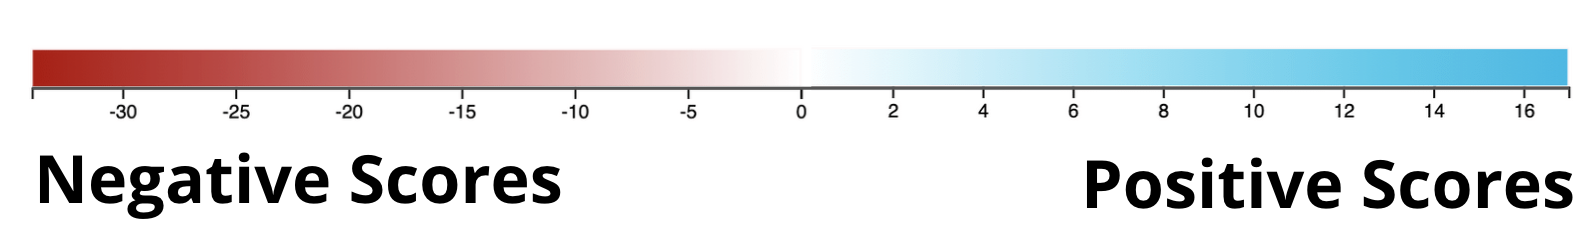
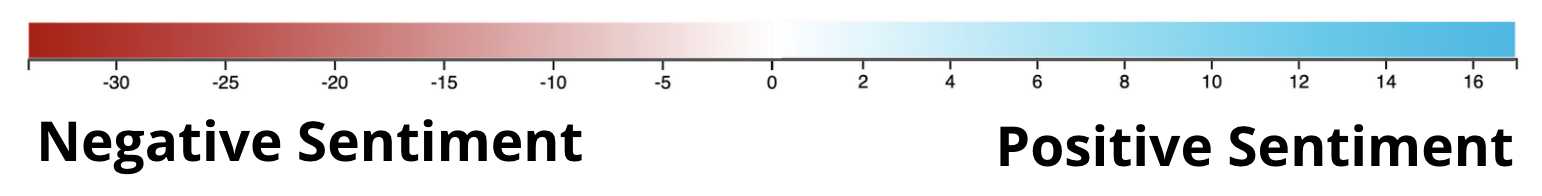
Changes to css

Changed region(s): [[0.0, 0.0918, 0.9961, 0.4898], [0.0, 0.6122, 0.4047, 0.8878], [0.6226, 0.6429, 0.9961, 0.8571]]

diff --git a/homework/Code/index4.html b/homework/Code/index4.html
@@ -21,7 +21,7 @@
         <p>The coronavirus outbreak has seem to hit the U.S. hard. As of <a href="https://www.bbc.com/news/world-us-canada-52258284">April 12</a>, US death toll has overtaken Italy as world's highest, with New York state being the epicenter of the outbreak. The country is well on its way to end up with the worst COVID-19 outbreak in the industrialized world. How did a country with supposedly the best medical infrastructure in the world be so ill-prepared for the pandemic when we were warned about it since early January. Let's take a look at the difference in reactions to the coronavirus situation between President Trump's and health experts, scientists, the Center for Disease Control and the World Health Organization (WHO) by looking at the sentiment scores for their speeches, articles or tweets.</p>
         <p>The project uses lexicon “Bing” and R scripts to analyze the sentiments of the texts. The “Bing” lexicon assigns words into positive and negative categories with scores. Articles are mostly written by the health experts themselves. The colors of the text boxes represent the sentiment of the texts. Shades of red color represent “negative” sentiment (having “Bing” score lower than 0). Shades of blue represent “positive” sentiment (having “Bing” score greater than 0). White color represent a “Bing” score of zero.</p>
         <div class="container">
-          <img class="image" src="chartf.png">
+          <img class="image" src="chartfinal.png">
           <div class="middle">
             <a href="#fullChart"><button class="button">See the timeline <br>in detail</button></a>
           </div>
@@ -45,8 +45,9 @@
         <div class="content-left-container">
           <div class="content-left" id="four">
             <p class="article-number">22th</p>
-            <p>"It’s one person coming in from China. We have it under control. It’s going to be just fine," <span class="article-number"><img src="trump.png" height="55" width="55"></span></p><br>
+            <p>"It’s one person coming in from China. We have it under control. It’s going to be just fine," <span class="article-number"><img src="trump.png" height="55" width="55"></span></p>
             <p class="sub">In an interview with CNBC’s Joe Kernen from the World Economic Forum in Davos</p>
+            <p class="score">Sentiment score: 4</p>
             <p class="seemore"><a href="https://www.cnbc.com/2020/01/22/trump-on-coronavirus-from-china-we-have-it-totally-under-control.html">See the full text</a></p>
           </div>
         </div>
@@ -56,6 +57,7 @@
             <p class="article-number">22th</p>
             <p>“We need to learn — and fast — about how [the coronavirus] spreads...”<span class="article-number"><img src="tom.png" height="55" width="55"></span></p>
             <p class="sub">Former CDC director Tom Frieden in an op-ed</p>
+            <p class="score">Sentiment score: -9</p>
             <p class="seemore"><a href="https://www.statnews.com/2020/01/22/former-cdc-director-tom-frieden-3-key-questions-novel-coronavirus-in-wuhan/">See the full text</a></p>
           </div>
         </div>
@@ -65,6 +67,7 @@
             <p class="article-number">22th</p>
             <p>WHO held meeting of the International Health Regulations Emergency Committee regarding the outbreak of novel coronavirus<span class="article-number"><img src="who.png" height="50" width="50"></span></p>
             <p class="sub">World Health Organization</p>
+            <p class="score">Sentiment score: -5</p>
             <p class="seemore"><a href="https://www.who.int/news-room/detail/23-01-2020-statement-on-the-meeting-of-the-international-health-regulations-(2005)-emergency-committee-regarding-the-outbreak-of-novel-coronavirus-(2019-ncov)">See the full text</a></p>
           </div>
       </div>
@@ -74,6 +77,7 @@
               <p class="article-number">24th</p>
               <p>“China has been working very hard to contain the Coronavirus. The United States greatly appreciates their efforts and transparency. It will all work out well. In particular, on behalf of the American People, I want to thank President Xi!"<span class="article-number"><img src="trump.png" height="55" width="55"></span></p>
               <p class="sub">A status on Twitter</p>
+              <p class="score">Sentiment score: 3</p>
               <p class="seemore"><a href="https://twitter.com/realdonaldtrump/status/1220818115354923009?lang=en">See the full text</a></p>
             </div>
         </div>
@@ -83,6 +87,7 @@
             <p class="article-number">28th</p>
             <p>“Act Now to Prevent an American Epidemic.”<span class="article-number"><img src="borio.png" height="50" width="50"><br></nr><img src="scott.png" height="50" width="50"></span></p>
             <p class="sub">Luciana Borio, public health administrator. Scott Gottlieb, Former Commissioner of Food and Drugs</p>
+            <p class="score">Sentiment score: -10</p>
             <p class="seemore"><a href="https://www.wsj.com/articles/act-now-to-prevent-an-american-epidemic-11580255335">See the full text</a></p>
           </div>
       </div>
@@ -92,6 +97,7 @@
             <p class="article-number">30th</p>
             <p>"We have it very well under control. We have very little problem in this country at this moment — five. And those people are all recuperating successfully."<span class="article-number"><img src="trump.png" height="55" width="55"></span></p>
             <p class="sub">In a Presidential Remark</p>
+            <p class="score">Sentiment score: 10</p>
             <p class="seemore"><a href="https://www.whitehouse.gov/briefings-statements/remarks-president-trump-usmca-celebration-american-workers-warren-mi/">See the full text</a></p>
           </div>
       </div>
@@ -104,6 +110,7 @@
             <p class="article-number">31st</p>
             <p>Declares Public Health Emergency for United States for 2019 Novel Coronavirus<span class="article-number"><img src="alex.png" height="55" width="55"></span></p>
             <p class="sub">Alex Azar, U.S Secretary of Health and Human Services</p>
+            <p class="score">Sentiment score: -2</p>
             <p class="seemore"><a href="https://www.hhs.gov/about/news/2020/01/31/secretary-azar-declares-public-health-emergency-us-2019-novel-coronavirus.html">See the full text</a></p>
           </div>
       </div>
@@ -122,6 +129,7 @@
             <p class="article-number">2nd</p>
             <p>"We pretty much shut [the coronavirus] down coming in from China"<span class="article-number"><img src="trump.png" height="55" width="55"></span></p>
             <p class="sub">In an interview with Sean Hannity</p>
+            <p class="score">Sentiment score: 3</p>
             <p class="seemore"><a href="https://factba.se/transcript/donald-trump-interview-sean-hannity-part-1-february-2-2020">See the full text</a></p>
           </div>
         </div>
@@ -131,7 +139,8 @@
             <p class="article-number" id="neg28">13rd</p>
             <p id="neg28">‘Tip of the iceberg:’ Why Covid-19 deaths will keep rising even as the coronavirus outbreak wanes<span class="article-number"><img src="fortune.png" height="55" width="55"></span></p>
             <p class="sub" id="neg28">Interview with infectious disease experts</p>
-            <p class="seemore" id="special"><a href="https://fortune.com/2020/02/13/covid-19-deaths-rising-coronavirus-outbreak/">See the full text</a></p>
+            <p class="score" id="neg28">Sentiment score: -28</p>
+            <p class="seemore" id="special"><a id="neg28" href="https://fortune.com/2020/02/13/covid-19-deaths-rising-coronavirus-outbreak/">See the full text</a></p>
           </div>
         </div>
 
@@ -141,6 +150,7 @@
             <p class="article-number">10th</p>
             <p>"A lot of people think that goes away in April"<span class="article-number"><img src="trump.png" height="55" width="55"></span></p>
             <p class="sub">In a Presidential Remark</p>
+            <p class="score">Sentiment score: 2</p>
             <p class="seemore"><a href="https://www.whitehouse.gov/briefings-statements/remarks-president-trump-white-house-business-session-nations-governors/">See the full text</a></p>
           </div>
         </div>
@@ -150,6 +160,7 @@
             <p class="article-number">20th</p>
             <p>“The infectious-disease epidemiology community and policymakers have come to the conclusion that it’s very likely that this virus is going to continue spreading throughout the world over time"<span class="article-number"><img src="mina.png" height="55" width="55"></span></p>
             <p class="sub">An interview with Dr. Michael Mina, Professor of Epidemiology at Harvard</p>
+            <p class="score">Sentiment score: -14</p>
             <p class="seemore"><a href="https://news.harvard.edu/gazette/story/2020/02/health-officials-expect-coronavirus-to-spread-worldwide/">See the full text</a></p>
           </div>
         </div>
@@ -159,6 +170,7 @@
             <p class="article-number">10th</p>
             <p>"Looks like by April, you know, in theory, when it gets a little warmer, it miraculously goes away"<span class="article-number"><img src="trump.png" height="55" width="55"></span></p>
             <p class="sub">In a rally in New Hampshire</p>
+            <p class="score">Sentiment score: 7</p>
             <p class="seemore"><a href="https://factba.se/transcript/donald-trump-speech-kag-rally-manchester-new-hampshire-february-10-2020">See the full text</a></p>
           </div>
         </div>
@@ -168,7 +180,8 @@
             <p class="article-number" id="neg21">20th</p>
             <p id="neg21">"We need to start preparing for the next viral outbreak now"<span class="article-number"><img src="david.png" height="55" width="55"><br><img src="Daniel.png" height="55" width="55"></span></p>
             <p class="sub" id="neg21">David Bloom & Daniel Cadarette, researchers at Harvard's Global Health Population Department.</p>
-            <p class="seemore" id="special"><a href="https://theconversation.com/coronavirus-we-need-to-start-preparing-for-the-next-viral-outbreak-now-132051">See the full text</a></p>
+            <p class="score" id="neg21">Sentiment score: -21</p>
+            <p class="seemore" id="special"><a id="neg21" href="https://theconversation.com/coronavirus-we-need-to-start-preparing-for-the-next-viral-outbreak-now-132051">See the full text</a></p>
           </div>
         </div>
      
@@ -178,6 +191,7 @@
             <p class="article-number">10th</p>
             <p>"We're in very good shape ... You know in April, supposedly, it dies with the hotter weather"<span class="article-number"><img src="trump.png" height="55" width="55"></span></p>
             <p class="sub">In an interview on Fox News</p>
+            <p class="score">Sentiment score: 10</p>
             <p class="seemore"><a href="https://factba.se/transcript/donald-trump-interview-trish-regan-fox-business-february-10-2020">See the full text</a></p>
           </div>
         </div>
@@ -187,6 +201,7 @@
             <p class="article-number">25th</p>
             <p>“As we’ve seen from recent countries with community spread ... it has moved quite rapidly.”<span class="article-number"><img src="Nancy.png" height="58" width="58"></span></p>
             <p class="sub">Nancy Messonnier, director of CDC’s National Center for Immunization and Respiratory Diseases</p>
+            <p class="score">Sentiment score: -5</p>
             <p class="seemore"><a href="https://www.statnews.com/2020/02/25/cdc-expects-community-spread-of-coronavirus-as-top-official-warns-disruptions-could-be-severe/">See the full text</a></p>
           </div>
         </div>     
@@ -196,35 +211,29 @@
             <p class="article-number">23th</p>
             <p id="four">"We have it very much under control in this country"<span class="article-number"><img src="trump.png" height="55" width="55"></span></p>
             <p class="sub" id="four">In a White House Remark</p>
+            <p class="score">Sentiment score: 4</p>
             <p class="seemore"><a href="https://www.whitehouse.gov/briefings-statements/remarks-president-trump-marine-one-departure-83/">See the full text</a></p>
           </div>
         </div>
 
-        <div class="content-left-container">
-          <div class="content-left" id="neg3">
-            <p class="article-number">26th</p>
-            <p>"USA in great shape!"<span class="article-number"><img src="trump.png" height="55" width="55"></span></p>
-            <p class="sub">Tweeted on Twitter</p>
-            <p class="seemore"><a href="https://twitter.com/realDonaldTrump/status/1232652371832004608">See the full text</a></p>
-          </div>
-        </div>
 
         <div class="content-right-container">
           <div class="content-right" id="zero">
             <p class="article-number">26th</p>
             <p>"U.S. isn’t ready to detect stealth coronavirus spread."<span class="article-number"><img src="politico.jpg" height="30" width="60"></span></p>
             <p class="sub">Article on Politico</p>
+            <p class="score">Sentiment score: 0</p>
             <p class="seemore"><a href="https://www.politico.com/news/2020/02/26/coronavirus-cdc-117779">See the full text</a></p>
           </div>
         </div>    
 
-  
         <div class="content-left-container">
           <div class="content-left" id="neg3">
             <p class="article-number">26th</p>
-            <p>"This is like a flu."<span class="article-number"><img src="trump.png" height="55" width="55"></span></p>
-            <p class="sub">In a White House Coronavirus Briefing</p>
-            <p class="seemore"><a href="https://factba.se/transcript/donald-trump-press-conference-white-house-coronavirus-february-26-2020">See the full text</a></p>
+            <p>"USA in great shape!"<span class="article-number"><img src="trump.png" height="55" width="55"></span></p>
+            <p class="sub">Tweeted on Twitter</p>
+            <p class="score">Sentiment score: -3</p>
+            <p class="seemore"><a href="https://twitter.com/realDonaldTrump/status/1232652371832004608">See the full text</a></p>
           </div>
         </div>
 
@@ -233,16 +242,28 @@
             <p class="article-number">28th</p>
             <p>"The writing has been on the wall. The chances of stopping [coronavirus] spread have dwindled to a very, very low probability."<span class="article-number"><img src="mina.png" height="55" width="55"></span></p>
             <p class="sub">Dr. Michael Mina, Professor of Epidemiology at Harvard</p>
+            <p class="score">Sentiment score: -12</p>
             <p class="seemore"><a href="https://www.wbur.org/commonhealth/2020/02/28/coronavirus-diagnostic-testing">See the full text</a></p>
           </div>
         </div>    
    
+          
+        <div class="content-left-container">
+          <div class="content-left" id="neg3">
+            <p class="article-number">26th</p>
+            <p>"This is like a flu."<span class="article-number"><img src="trump.png" height="55" width="55"></span></p>
+            <p class="sub">In a White House Coronavirus Briefing</p>
+            <p class="score">Sentiment score: -3</p>
+            <p class="seemore"><a href="https://factba.se/transcript/donald-trump-press-conference-white-house-coronavirus-february-26-2020">See the full text</a></p>
+          </div>
+        </div>
 
         <div class="content-left-container">
           <div class="content-left" id="nine">
             <p class="article-number">28th</p>
             <p>"It’s going to disappear. One day — it’s like a miracle — it will disappear"<span class="article-number"><img src="trump.png" height="55" width="55"></span></p>
             <p class="sub">In a Presidential Remark</p>
+            <p class="score">Sentiment score: 9</p>
             <p class="seemore"><a href="https://www.whitehouse.gov/briefings-statements/remarks-president-trump-meeting-african-american-leaders/">See the full text</a></p>
           </div>
         </div>
@@ -260,6 +281,7 @@
               <p class="article-number">2nd</p>
               <p>"They're going to have vaccines...The U.S. is, right now, ranked by far No. 1 in the world for preparedness"<span class="article-number"><img src="trump.png" height="55" width="55"></span></p>
               <p class="sub">In a rally in North Carolina</p>
+              <p class="score">Sentiment score: 9</p>
               <p class="seemore"><a href="https://factba.se/transcript/donald-trump-speech-kag-rally-charlotte-north-carolina-march-2-2020">See the full text</a></p>
             </div>
         </div>
@@ -269,6 +291,7 @@
             <p class="article-number">2nd</p>
             <p>"40-70% of the world's adult population could be infected"<span class="article-number"><img src="marc.png" height="58" width="58"></span></p>
             <p class="sub">Marc Lipsitch from Harvard University, one of the country's top experts on viruses.</p>
+            <p class="score">Sentiment score: -8</p>
             <p class="seemore"><a href="cbsnews.com/news/coronavirus-infection-outbreak-worldwide-virus-expert-warning-today-2020-03-02/">See the full text</a></p>
           </div>
         </div>
@@ -278,6 +301,7 @@
             <p class="article-number">4th</p>
             <p>"It wasn't something that was going to affect us...It’s very mild."<span class="article-number makeblank"><img src="trump.png" height="55" width="55"></span></p>
             <p class="sub">In an interview with Sean Hannity</p>
+            <p class="score">Sentiment score: 10</p>
             <p class="seemore"><a href="https://factba.se/transcript/donald-trump-interview-sean-hannity-fox-telephone-march-4-2020">See the full text</a></p>
           </div>
         </div>
@@ -288,6 +312,7 @@
             <p class="article-number">3rd</p>
             <p>This virus is not SARS, it’s not MERS, and it’s not influenza. It is a unique virus with unique characteristics.<span class="article-number"><img src="director.png" height="58" width="55"></span></p>
             <p class="sub">WHO Director-General's opening remarks at the media briefing on COVID-19</p>
+            <p class="score">Sentiment score: -11</p>
             <p class="seemore"><a href="https://www.who.int/dg/speeches/detail/who-director-general-s-opening-remarks-at-the-media-briefing-on-covid-19---3-march-2020">See the full text</a></p>
           </div>
         </div>
@@ -297,6 +322,7 @@
             <p class="article-number">8th</p>
             <p id="three">"We’ve done a fantastic job with respect to that subject on the virus ... No I'm not concerned at all"<span class="article-number makeblank"><img src="trump.png" height="55" width="55"></span></p>
             <p class="sub" id="three">In a Presidential Remark</p>
+            <p class="score">Sentiment score: 3</p>
             <p class="seemore"><a href="https://www.whitehouse.gov/briefings-statements/remarks-president-trump-president-bolsonaro-brazil-working-dinner-west-palm-beach-fl/">See the full text</a></p>
           </div>
         </div>
@@ -307,6 +333,7 @@
             <p>"Testing for the coronavirus might have stopped it. Now it’s too late."
               <span class="article-number"><img src="william.png" height="58" width="58"></span></p>
             <p class="sub">William Hanage, a Harvard epidemiologist</p>
+            <p class="score">Sentiment score: -13</p>
             <p class="seemore"><a href="https://www.washingtonpost.com/outlook/coronavirus-testing-united-states/2020/03/05/a6ced5aa-5f0f-11ea-9055-5fa12981bbbf_story.html">See the full text</a></p>
           </div>
         </div>
@@ -316,6 +343,7 @@
             <p class="article-number">10th</p>
             <p id="fourteen">"Just stay calm. It will go away, be calm. It’s really working out."<span class="article-number makeblank"><img src="trump.png" height="55" width="55"></span></p>
             <p class="sub" id="fourteen">In a Meeting with Republican Senators</p>
+            <p class="score">Sentiment score: 14</p>
             <p class="seemore"><a href="https://www.whitehouse.gov/briefings-statements/remarks-president-trump-meeting-republican-senators-2/?utm_source=link&utm_medium=header">See the full text</a></p>
           </div>
         </div>
@@ -325,6 +353,7 @@
             <p class="article-number">10th</p>
             <p>"We are all at risk of infection right now, some more than others, depending on where they live or the jobs they do. And it is only going to get worse."<span class="article-number"><img src="william.png" height="55" width="55"></span></p>
             <p class="sub">William Hanage, a Harvard epidemiologist</p>
+            <p class="score">Sentiment score: -18</p>
             <p class="seemore"><a href="https://www.washingtonpost.com/outlook/2020/03/10/coronavirus-work-home/">See the full text</a></p>
           </div>
         </div>
@@ -334,6 +363,7 @@
             <p class="article-number">11th</p>
             <p>"This is the most aggressive and comprehensive effort to confront a foreign virus in modern history."<span class="article-number makeblank"><img src="trump.png" height="55" width="55"></span></p>
             <p class="sub">Remarks by President Trump in Address to the Nation</p>
+            <p class="score">Sentiment score: 17</p>
             <p class="seemore"><a href="https://www.whitehouse.gov/briefings-statements/remarks-president-trump-address-nation/">See the full text</a></p>
           </div>
         </div>
@@ -343,6 +373,7 @@
             <p class="article-number">10th</p>
             <p id="zero">"Some of the best epidemiologists in the world are estimating that between 40 and 70% of adults will end up getting an infections."<span class="article-number"><img src="jha.png" height="55" width="55"></span></p>
             <p class="sub" id="zero">Dr. Ashish Jha, Harvard Global Health Expert</p>
+            <p class="score">Sentiment score: 0</p>
             <p class="seemore"><a href="https://www.wbur.org/news/2020/03/10/coronavirus-covid-19-massachusetts-hospital-capacity-ashish-jha">See the full text</a></p>
           </div>
         </div>

diff --git a/homework/FinalProject/H1B/index.html b/homework/FinalProject/H1B/index.html
@@ -249,8 +249,9 @@
             <image xlink:href="Logo/Vermont.png" x="0" y="0" width="100" height="100" />
           </pattern>
 
-          <pattern id="VirginiaLogo" patternUnits="userSpaceOnUse" width="100" height="100">
-            <image xlink:href="Logo/Virginia.png" x="0" y="0" width="100" height="100" />
+          <pattern id="VirginiaLogo" patternContentUnits="objectBoundingBox" width="100%" height="100%" 
+          viewBox="0 0 1 1" preserveAspectRatio="xMidYMid slice">
+            <image href="Logo/Virginia.png" width="1" height="1" preserveAspectRatio="xMidYMid slice"/>
           </pattern>
 
           <pattern id="WashingtonLogo" patternContentUnits="objectBoundingBox" width="100%" height="100%" 
@@ -258,9 +259,11 @@
             <image href="Logo/Washington.png" width="1" height="1" preserveAspectRatio="xMidYMid slice"/>
           </pattern>
 
-          <pattern id="WestViginiaLogo" patternUnits="userSpaceOnUse" width="100" height="100">
-            <image xlink:href="Logo/WestVirginia.png" x="0" y="0" width="100" height="100" />
+          <pattern id="WestVirginiaLogo" patternContentUnits="objectBoundingBox" width="100%" height="100%" 
+          viewBox="0 0 1 1" preserveAspectRatio="xMidYMid slice">
+            <image href="Logo/WestVirginia.png" width="1" height="1" preserveAspectRatio="xMidYMid slice"/>
           </pattern>
+      
 
           <pattern id="WisconsinLogo" patternContentUnits="objectBoundingBox" width="100%" height="100%" 
           viewBox="0 0 1 1" preserveAspectRatio="xMidYMid slice">

diff --git a/homework/Code/styles4.css b/homework/Code/styles4.css
@@ -25,6 +25,8 @@ body {
 
   }
 
+
+
 .header {
     font-size: 25px;
     color: rgb(255, 255, 255);
@@ -234,11 +236,17 @@ body {
   }
 
   .timeline-article p.sub{
-    font-weight: bold;
-    font-size: 15px;
+    font-size: 13px;
     text-align: left;
     padding-top: 5%;
+    font-style: italic;
   }
+
+  .timeline-article p.score {
+    padding-top: 5%;
+    font-weight: bold;
+
+}
 
   .timeline-article p {
     margin: 0 0 0 60px;
